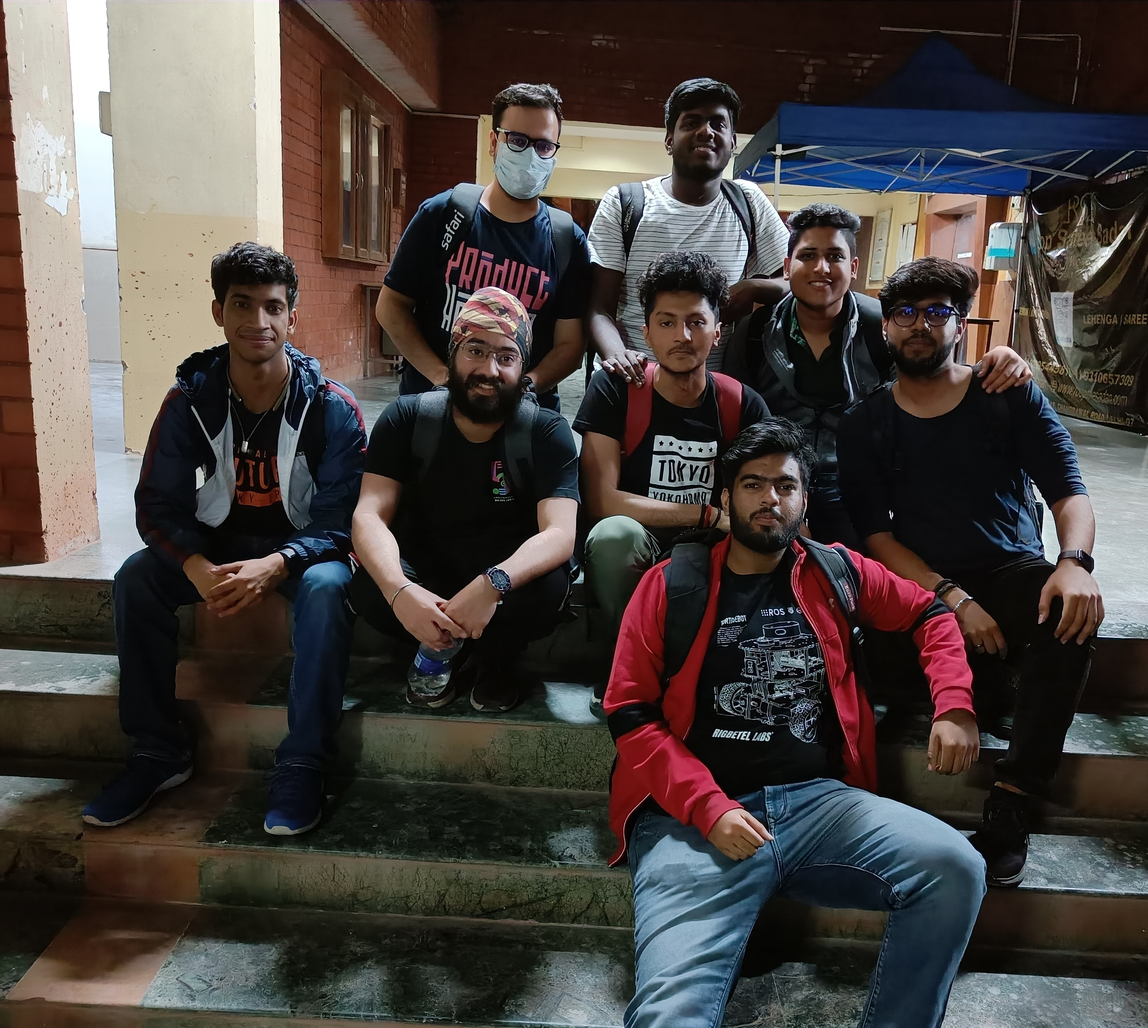
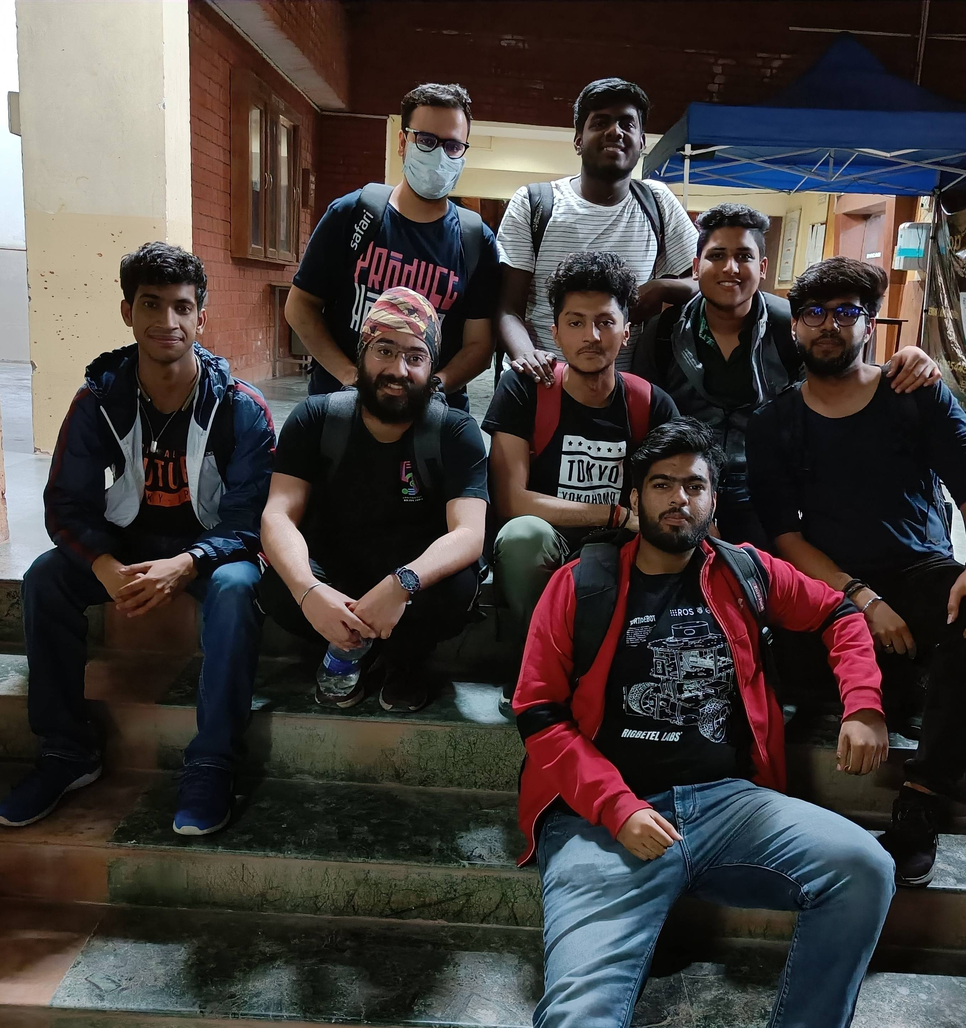
Reduced image sizes

diff --git a/content/blog/Atoms-day-out-at-hack-bvicam.md b/content/blog/Atoms-day-out-at-hack-bvicam.md
@@ -1,8 +1,8 @@
 ---
 title: "A.T.O.M's Day Out at Hack-BVICAM'22"
 date: 2022-03-28T13:56:06+06:00
-image: images/blog/hack-bvi-cam-blog/hack-bvi-cam-cover.png
-feature_image: images/blog/hack-bvi-cam-blog/hack-bvi-cam-cover.png
+image: images/blog/hack-bvi-cam-blog/hack-bvi-cam-cover.jpg
+feature_image: images/blog/hack-bvi-cam-blog/hack-bvi-cam-cover.jpg
 author: Jasmeet Singh
 ---
 
@@ -50,7 +50,7 @@ Tech Stack Used in the Project:
 
 The project source code can be found on our GitHub page: <a href="https://github.com/atom-robotics-lab/BVPICAM-RUNTIME_TERROR">https://github.com/atom-robotics-lab/BVPICAM-RUNTIME_TERROR</a>
 
-{{<figure src="/images/blog/hack-bvi-cam-blog/runtime_terror_award.png" width=100% caption="Fig 2: Team RUNTIME_TERROR receiving the award(left)  Team Leader Naman wearing the Wearable Device the Team Made(Right)">}}
+{{<figure src="/images/blog/hack-bvi-cam-blog/runtime_terror_award.jpg" width=100% caption="Fig 2: Team RUNTIME_TERROR receiving the award(left)  Team Leader Naman wearing the Wearable Device the Team Made(Right)">}}
 {{<figure src="/images/blog/hack-bvi-cam-blog/runtime_terror_grafana.png" width=100% caption="Fig 3: Grafana Dashboard showing the sensor values for coal miner">}}
 
 
